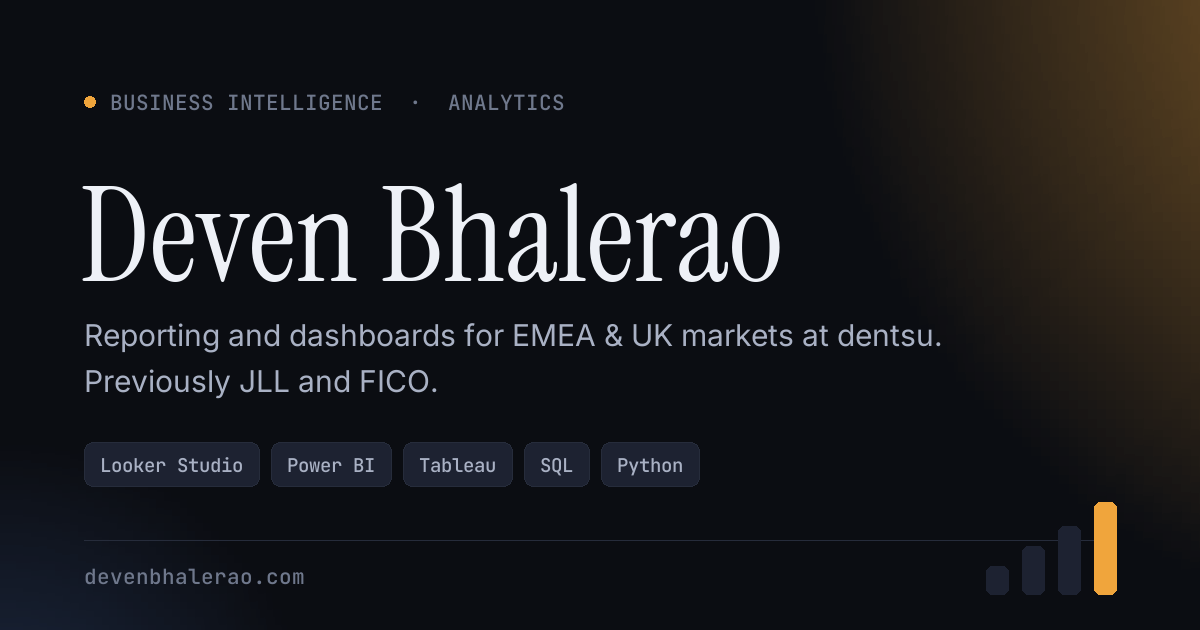
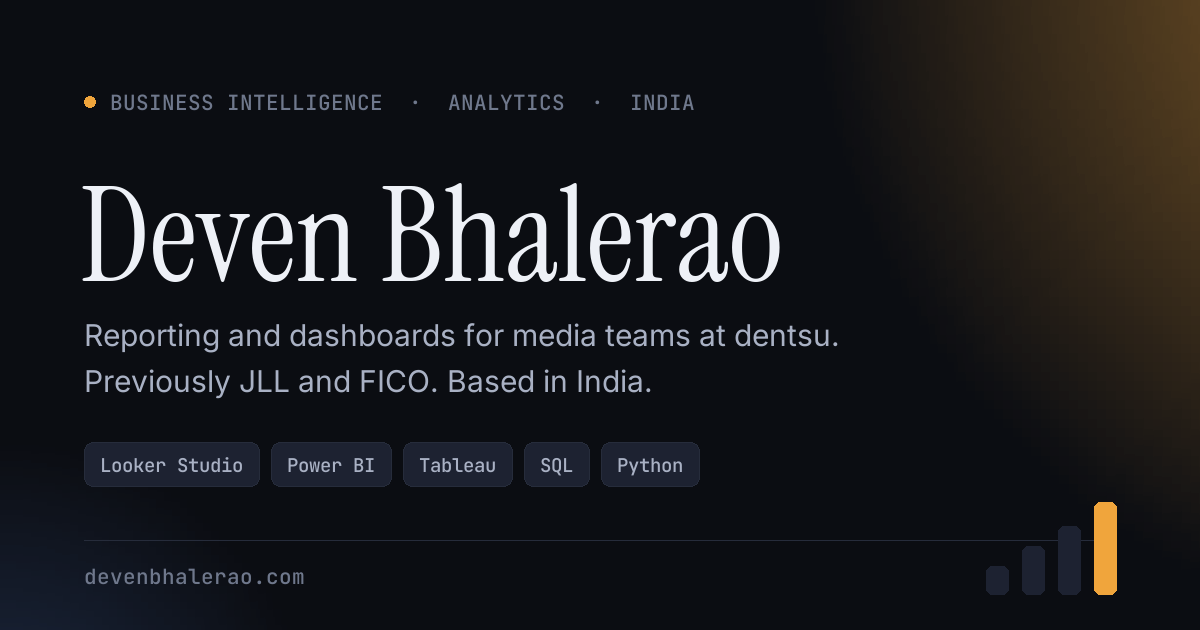
Understate EMEA & UK so location reads as India
Working with EMEA and UK markets was stated up front in the hero, meta
description, OG card, CV profile and the dentsu role header, which made
the site read as though Deven is based in the UK rather than serving
those markets from India.

Removed it from all identity-level copy and added an explicit "based in
India" to the meta description, OG card and About paragraph. The eyebrow
already carried "· India"; the OG card now does too.

Kept exactly one mention, in the dentsu job bullet, where it is the
literal resume line and reads as market coverage rather than location.

Changed region(s): [[0.37, 0.5127, 0.7708, 0.6333], [0.5242, 0.1508, 0.5858, 0.181]]

diff --git a/index.html b/index.html
@@ -4,7 +4,7 @@
 <meta charset="UTF-8">
 <meta name="viewport" content="width=device-width, initial-scale=1">
 <title>Deven Bhalerao — Business Intelligence &amp; Analytics</title>
-<meta name="description" content="Deven Bhalerao is a business intelligence specialist working with EMEA and UK markets at dentsu, building reporting in Looker Studio, Power BI and Tableau. Previously JLL and FICO.">
+<meta name="description" content="Deven Bhalerao is a business intelligence specialist at dentsu, building reporting in Looker Studio, Power BI and Tableau. Previously JLL and FICO. Based in India.">
 <meta name="author" content="Deven Bhalerao">
 <link rel="canonical" href="https://devenbhalerao.com/">
 <meta name="theme-color" content="#0b0d12" media="(prefers-color-scheme: dark)">
@@ -13,13 +13,13 @@
 <meta property="og:type" content="profile">
 <meta property="og:url" content="https://devenbhalerao.com/">
 <meta property="og:title" content="Deven Bhalerao — Business Intelligence &amp; Analytics">
-<meta property="og:description" content="Business intelligence specialist for EMEA &amp; UK markets at dentsu. Previously JLL and FICO. Looker Studio, Power BI, Tableau, SQL.">
+<meta property="og:description" content="Business intelligence specialist at dentsu, based in India. Previously JLL and FICO. Looker Studio, Power BI, Tableau, SQL.">
 <meta property="og:image" content="https://devenbhalerao.com/assets/og.png">
 <meta property="og:image:width" content="1200">
 <meta property="og:image:height" content="630">
 <meta name="twitter:card" content="summary_large_image">
 <meta name="twitter:title" content="Deven Bhalerao — Business Intelligence &amp; Analytics">
-<meta name="twitter:description" content="Business intelligence specialist for EMEA &amp; UK markets at dentsu. Previously JLL and FICO.">
+<meta name="twitter:description" content="Business intelligence specialist at dentsu, based in India. Previously JLL and FICO.">
 <meta name="twitter:image" content="https://devenbhalerao.com/assets/og.png">
 
 <link rel="icon" href="assets/favicon.svg" type="image/svg+xml">
@@ -111,7 +111,7 @@
 
         <p class="lede reveal">
           I build the reporting layer that people actually make decisions with — dashboards for
-          EMEA &amp; UK media teams at <strong>dentsu</strong>, and before that for
+          media teams at <strong>dentsu</strong>, and before that for
           <strong>JLL</strong> and <strong>FICO</strong>.
         </p>
 
@@ -178,8 +178,8 @@
     <div class="sec-body">
       <div class="prose reveal">
         <p>
-          I'm a Business Intelligence Specialist at <strong>dentsu Global Services</strong>, working with
-          EMEA and UK markets. My days are spent turning digital advertising data into
+          I'm a Business Intelligence Specialist at <strong>dentsu Global Services</strong>, based in India.
+          My days are spent turning digital advertising data into
           client-facing reporting — Looker Studio and Power BI dashboards fed by Supermetrics and
           the ad platforms themselves, covering Google Ads, Meta, TikTok, LinkedIn, DV360, CM360
           and Google Analytics.
@@ -213,7 +213,7 @@
           <div class="tl-marker" aria-hidden="true"></div>
           <div class="tl-head">
             <h3 class="tl-role">Business Intelligence Specialist</h3>
-            <p class="tl-org">dentsu Global Services <span class="tl-sep">·</span> EMEA &amp; UK</p>
+            <p class="tl-org">dentsu Global Services</p>
             <p class="tl-date">Jun 2024 — Present</p>
           </div>
           <ul class="tl-points">
